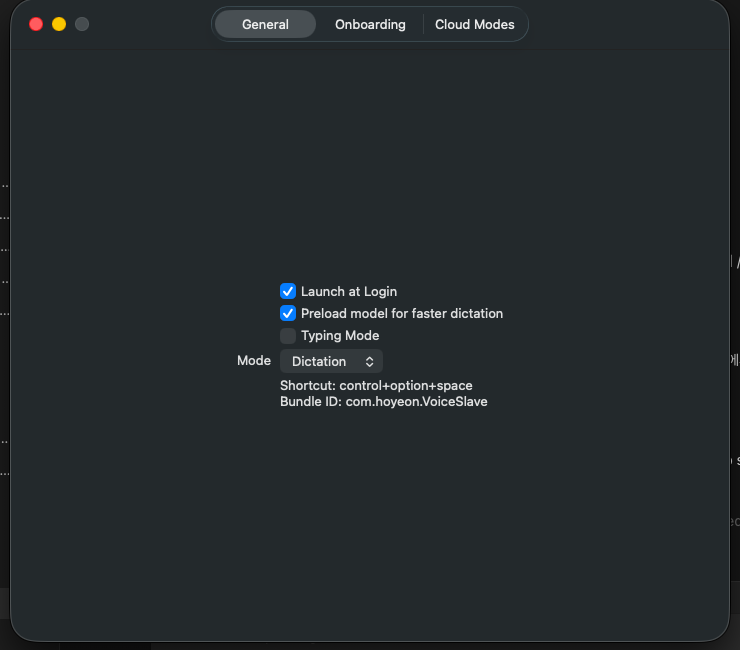
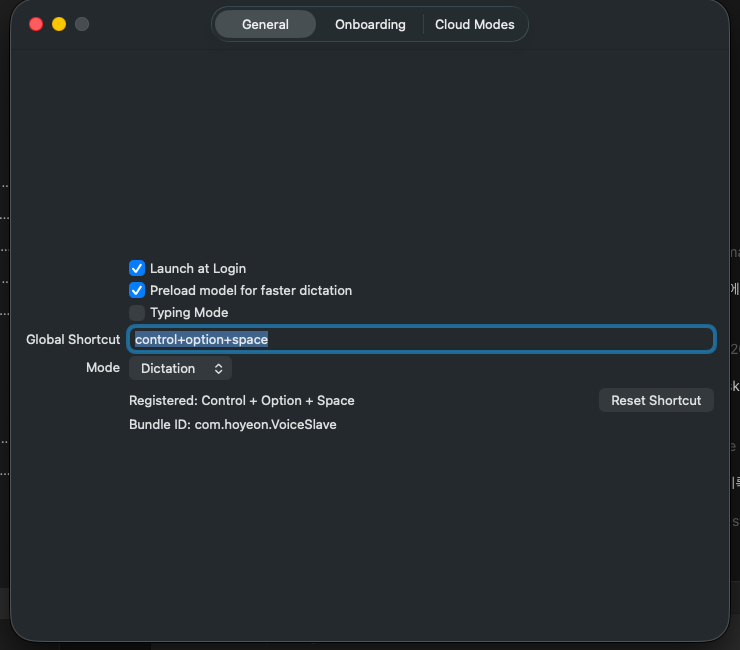
Implement VoiceSlave macOS dictation MVP

diff --git a/Sources/VoiceSlave/MacRuntime.swift b/Sources/VoiceSlave/MacRuntime.swift
@@ -6,6 +6,123 @@ import Security
 import ServiceManagement
 import VoiceSlaveCore
 
+struct KeyboardShortcut: Equatable {
+    let keyCode: UInt16
+    let modifiers: NSEvent.ModifierFlags
+    let displayName: String
+
+    static func parse(_ value: String) -> KeyboardShortcut? {
+        let parts = value
+            .split(separator: "+")
+            .map { $0.trimmingCharacters(in: .whitespacesAndNewlines).lowercased() }
+            .filter { !$0.isEmpty }
+        guard !parts.isEmpty else { return nil }
+
+        var modifiers: NSEvent.ModifierFlags = []
+        var keyName: String?
+        for part in parts {
+            switch part {
+            case "command", "cmd", "⌘":
+                modifiers.insert(.command)
+            case "control", "ctrl", "⌃":
+                modifiers.insert(.control)
+            case "option", "alt", "⌥":
+                modifiers.insert(.option)
+            case "shift", "⇧":
+                modifiers.insert(.shift)
+            default:
+                guard keyName == nil else { return nil }
+                keyName = part
+            }
+        }
+
+        guard let keyName, let keyCode = keyCodes[keyName], !modifiers.isEmpty else {
+            return nil
+        }
+        return KeyboardShortcut(
+            keyCode: keyCode,
+            modifiers: modifiers,
+            displayName: displayName(modifiers: modifiers, keyName: keyName)
+        )
+    }
+
+    private static let keyCodes: [String: UInt16] = [
+        "a": 0, "s": 1, "d": 2, "f": 3, "h": 4, "g": 5, "z": 6, "x": 7,
+        "c": 8, "v": 9, "b": 11, "q": 12, "w": 13, "e": 14, "r": 15,
+        "y": 16, "t": 17, "1": 18, "2": 19, "3": 20, "4": 21, "6": 22,
+        "5": 23, "=": 24, "9": 25, "7": 26, "-": 27, "8": 28, "0": 29,
+        "]": 30, "o": 31, "u": 32, "[": 33, "i": 34, "p": 35, "return": 36,
+        "enter": 36, "l": 37, "j": 38, "'": 39, "k": 40, ";": 41, "\\": 42,
+        ",": 43, "/": 44, "n": 45, "m": 46, ".": 47, "tab": 48,
+        "space": 49, "`": 50, "escape": 53, "esc": 53
+    ]
+
+    private static func displayName(modifiers: NSEvent.ModifierFlags, keyName: String) -> String {
+        var pieces: [String] = []
+        if modifiers.contains(.control) { pieces.append("Control") }
+        if modifiers.contains(.option) { pieces.append("Option") }
+        if modifiers.contains(.shift) { pieces.append("Shift") }
+        if modifiers.contains(.command) { pieces.append("Command") }
+        pieces.append(keyName == "space" ? "Space" : keyName.uppercased())
+        return pieces.joined(separator: " + ")
+    }
+}
+
+@MainActor
+final class GlobalShortcutMonitor {
+    private var globalMonitor: Any?
+    private var localMonitor: Any?
+    private var shortcut: KeyboardShortcut?
+    private var action: (() -> Void)?
+
+    func start(shortcutText: String, action: @escaping () -> Void) -> KeyboardShortcut? {
+        stop()
+        guard let shortcut = KeyboardShortcut.parse(shortcutText) else {
+            return nil
+        }
+        self.shortcut = shortcut
+        self.action = action
+
+        globalMonitor = NSEvent.addGlobalMonitorForEvents(matching: .keyDown) { [weak self] event in
+            DispatchQueue.main.async {
+                self?.handle(event)
+            }
+        }
+        localMonitor = NSEvent.addLocalMonitorForEvents(matching: .keyDown) { [weak self] event in
+            if self?.matches(event) == true {
+                self?.action?()
+                return nil
+            }
+            return event
+        }
+        return shortcut
+    }
+
+    func stop() {
+        if let globalMonitor {
+            NSEvent.removeMonitor(globalMonitor)
+        }
+        if let localMonitor {
+            NSEvent.removeMonitor(localMonitor)
+        }
+        globalMonitor = nil
+        localMonitor = nil
+        shortcut = nil
+        action = nil
+    }
+
+    private func handle(_ event: NSEvent) {
+        guard matches(event) else { return }
+        action?()
+    }
+
+    private func matches(_ event: NSEvent) -> Bool {
+        guard let shortcut, !event.isARepeat else { return false }
+        let activeModifiers = event.modifierFlags.intersection([.command, .control, .option, .shift])
+        return event.keyCode == shortcut.keyCode && activeModifiers == shortcut.modifiers
+    }
+}
+
 struct MacPermissionReader {
     func snapshot(modelSetupComplete: Bool) -> PermissionSnapshot {
         PermissionSnapshot(

diff --git a/Sources/VoiceSlave/main.swift b/Sources/VoiceSlave/main.swift
@@ -15,11 +15,16 @@ final class VoiceSlaveAppDelegate: NSObject, NSApplicationDelegate {
     private var overlayWindow: NSWindow?
     private let settings = ObservableSettings()
     private let modeGate = ModeGate()
+    private let shortcutMonitor = GlobalShortcutMonitor()
     private let launchArguments = Set(CommandLine.arguments.dropFirst())
 
     func applicationDidFinishLaunching(_ notification: Notification) {
         NSApp.setActivationPolicy(.accessory)
+        settings.onShortcutChanged = { [weak self] shortcut in
+            self?.installGlobalShortcut(shortcut)
+        }
         installMenuBar()
+        installGlobalShortcut(settings.state.globalShortcut)
         if launchArguments.contains("--show-settings") {
             openSettings()
         }
@@ -34,12 +39,22 @@ final class VoiceSlaveAppDelegate: NSObject, NSApplicationDelegate {
         statusItem.button?.toolTip = "VoiceSlave"
 
         let menu = NSMenu()
-        menu.addItem(NSMenuItem(title: "Start Dictation", action: #selector(toggleRecording), keyEquivalent: ""))
+        menu.addItem(NSMenuItem(title: "Start/Stop Dictation", action: #selector(toggleRecording), keyEquivalent: ""))
         menu.addItem(NSMenuItem(title: "Settings", action: #selector(openSettings), keyEquivalent: ","))
         menu.addItem(.separator())
         menu.addItem(NSMenuItem(title: "Quit VoiceSlave", action: #selector(quit), keyEquivalent: "q"))
         statusItem.menu = menu
         self.statusItem = statusItem
+    }
+
+    private func installGlobalShortcut(_ shortcut: String) {
+        if let registered = shortcutMonitor.start(shortcutText: shortcut, action: { [weak self] in
+            self?.toggleRecording()
+        }) {
+            settings.shortcutRegistrationStatus = "Registered: \(registered.displayName)"
+        } else {
+            settings.shortcutRegistrationStatus = "Invalid shortcut"
+        }
     }
 
     @objc private func toggleRecording() {
@@ -70,22 +85,38 @@ final class VoiceSlaveAppDelegate: NSObject, NSApplicationDelegate {
     }
 
     private func showOverlay(status: String, mode: String) {
+        if overlayWindow != nil {
+            overlayWindow?.makeKeyAndOrderFront(nil)
+            return
+        }
         let window = NSWindow(
             contentRect: NSRect(x: 0, y: 0, width: 360, height: 136),
             styleMask: [.borderless],
             backing: .buffered,
             defer: false
         )
-        window.level = .floating
+        window.level = .statusBar
+        window.collectionBehavior = [.canJoinAllSpaces, .transient]
         window.isOpaque = false
         window.backgroundColor = .clear
-        window.contentView = NSHostingView(rootView: RecordingOverlay(status: status, mode: mode) { [weak self] in
+        window.hasShadow = true
+        window.contentView = NSHostingView(rootView: RecordingOverlay(status: status, mode: mode, shortcut: settings.state.globalShortcut) { [weak self] in
             self?.overlayWindow?.close()
             self?.overlayWindow = nil
         })
-        window.center()
-        window.makeKeyAndOrderFront(nil)
+        positionOverlay(window)
+        window.orderFrontRegardless()
         overlayWindow = window
+    }
+
+    private func positionOverlay(_ window: NSWindow) {
+        let mouse = NSEvent.mouseLocation
+        let screen = NSScreen.screens.first { NSMouseInRect(mouse, $0.frame, false) } ?? NSScreen.main
+        let frame = screen?.visibleFrame ?? NSScreen.main?.visibleFrame ?? .zero
+        let windowSize = window.frame.size
+        let x = frame.midX - (windowSize.width / 2)
+        let y = frame.maxY - windowSize.height - 28
+        window.setFrameOrigin(NSPoint(x: x, y: y))
     }
 
     @objc private func quit() {
@@ -95,10 +126,46 @@ final class VoiceSlaveAppDelegate: NSObject, NSApplicationDelegate {
 
 @MainActor
 final class ObservableSettings: ObservableObject {
-    @Published var state = AppSettings()
+    private let store = UserDefaultsSettingsStore()
+    var onShortcutChanged: ((String) -> Void)?
+
+    @Published var state: AppSettings {
+        didSet {
+            store.save(state)
+            if oldValue.globalShortcut != state.globalShortcut {
+                onShortcutChanged?(state.globalShortcut)
+            }
+        }
+    }
     @Published var permissions = PermissionSnapshot()
     @Published var model = ModelSetupState()
     @Published var apiKeyState: APIKeyState = .absent
+    @Published var shortcutRegistrationStatus = ""
+
+    init() {
+        self.state = store.load()
+    }
+
+    func resetShortcut() {
+        state.globalShortcut = AppSettings().globalShortcut
+    }
+}
+
+struct UserDefaultsSettingsStore {
+    private let key = "VoiceSlave.AppSettings.v1"
+
+    func load() -> AppSettings {
+        guard let data = UserDefaults.standard.data(forKey: key),
+              let settings = try? JSONDecoder().decode(AppSettings.self, from: data) else {
+            return AppSettings()
+        }
+        return settings
+    }
+
+    func save(_ settings: AppSettings) {
+        guard let data = try? JSONEncoder().encode(settings) else { return }
+        UserDefaults.standard.set(data, forKey: key)
+    }
 }
 
 struct SettingsView: View {
@@ -111,12 +178,19 @@ struct SettingsView: View {
                 Toggle("Launch at Login", isOn: $settings.state.launchAtLogin)
                 Toggle("Preload model for faster dictation", isOn: $settings.state.preloadModel)
                 Toggle("Typing Mode", isOn: $settings.state.typingModeEnabled)
+                TextField("Global Shortcut", text: $settings.state.globalShortcut)
                 Picker("Mode", selection: $settings.state.selectedMode) {
                     ForEach(DictationMode.allCases, id: \.self) { mode in
                         Text(mode.rawValue).tag(mode)
                     }
                 }
-                Text("Shortcut: \(settings.state.globalShortcut)")
+                HStack {
+                    Text(settings.shortcutRegistrationStatus)
+                    Spacer()
+                    Button("Reset Shortcut") {
+                        settings.resetShortcut()
+                    }
+                }
                 Text("Bundle ID: \(settings.state.bundleIdentifier)")
             }
             .padding()
@@ -154,23 +228,35 @@ struct SettingsView: View {
 struct RecordingOverlay: View {
     var status: String
     var mode: String
+    var shortcut: String
     var stop: () -> Void
 
     var body: some View {
-        VStack(alignment: .leading, spacing: 12) {
+        VStack(alignment: .leading, spacing: 10) {
             HStack {
-                Text(status)
-                    .font(.headline)
+                HStack(spacing: 8) {
+                    Circle()
+                        .fill(Color.red)
+                        .frame(width: 10, height: 10)
+                    Text(status)
+                        .font(.headline)
+                }
                 Spacer()
                 Text(mode)
                     .font(.subheadline)
             }
+            Text("Listening locally")
+                .font(.caption)
+                .foregroundStyle(.secondary)
             WaveformView()
                 .frame(height: 36)
             HStack {
                 Text("00:00")
                     .monospacedDigit()
                 Spacer()
+                Text(shortcut)
+                    .font(.caption)
+                    .foregroundStyle(.secondary)
                 Button("Stop", action: stop)
                 Button("Cancel", action: stop)
             }

diff --git a/docs/onboarding.md b/docs/onboarding.md
@@ -43,7 +43,7 @@ Signing, notarization, and DMG packaging are intentionally separate release step
 1. Launch `VoiceSlave.app`.
 2. Find `VS` in the menu bar.
 3. Open `VS` -> `Settings`.
-4. Confirm the default shortcut and mode.
+4. Set `Global Shortcut` or keep the default `control+option+space`.
 5. Keep `Preload model for faster dictation` enabled for lower warm-path latency.
 
 ![Settings](assets/screenshots/settings.png)
@@ -66,9 +66,10 @@ Normal dictation should stay blocked until microphone, accessibility, and model 
 
 1. Choose `Dictation` mode for fully local cleanup and insertion.
 2. Press the configured shortcut or choose `Start Dictation` from the `VS` menu.
-3. Speak a Korean-English/code mixed phrase.
-4. Press Stop in the overlay.
-5. VoiceSlave inserts text at the current cursor through clipboard paste and then best-effort restores the previous clipboard.
+3. Confirm the top-center overlay shows the local recording state.
+4. Speak a Korean-English/code mixed phrase.
+5. Press Stop in the overlay.
+6. VoiceSlave inserts text at the current cursor through clipboard paste and then best-effort restores the previous clipboard.
 
 ![Recording overlay](assets/screenshots/overlay.png)
 

diff --git a/README.md b/README.md
@@ -11,7 +11,8 @@ The app has two build paths:
 The product logic lives in `VoiceSlaveCore` so privacy, mode gating, insertion,
 history, vocabulary, and latency behavior can be tested without a GUI session.
 The `VoiceSlave` executable provides the AppKit/SwiftUI menu bar shell, Settings
-window, recording overlay, and macOS runtime adapters.
+window, configurable global shortcut, top-center recording overlay, and macOS
+runtime adapters.
 
 ## Try The App
 
@@ -19,6 +20,10 @@ window, recording overlay, and macOS runtime adapters.
 ./scripts/package-app.sh
 open dist/VoiceSlave.app
 ```
+
+Open `VS` in the menu bar, choose `Settings`, and set `Global Shortcut`. The
+default is `control+option+space`; pressing it toggles the recording overlay at
+the top center of the screen.
 
 For the full setup flow, screenshots, permissions, and troubleshooting, read
 [docs/onboarding.md](docs/onboarding.md).